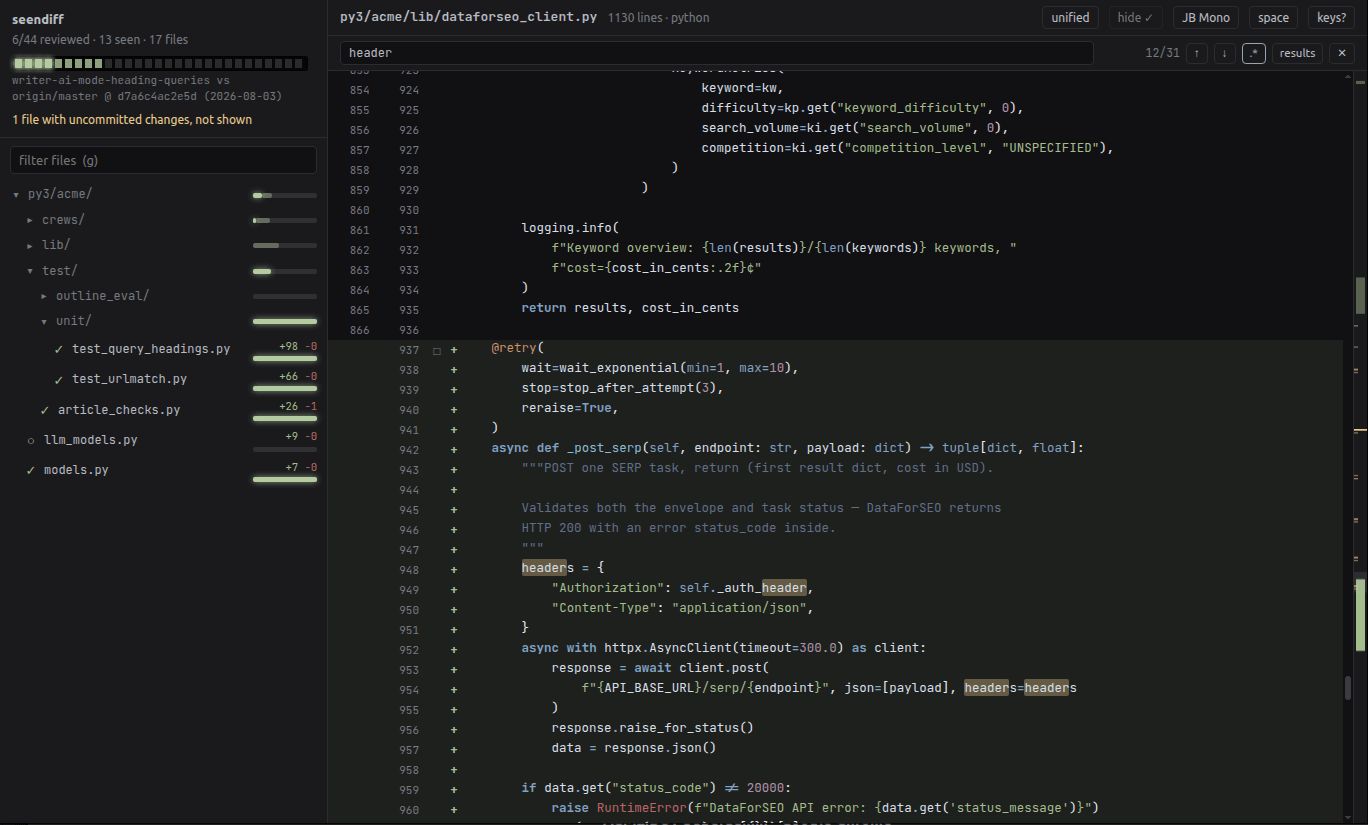
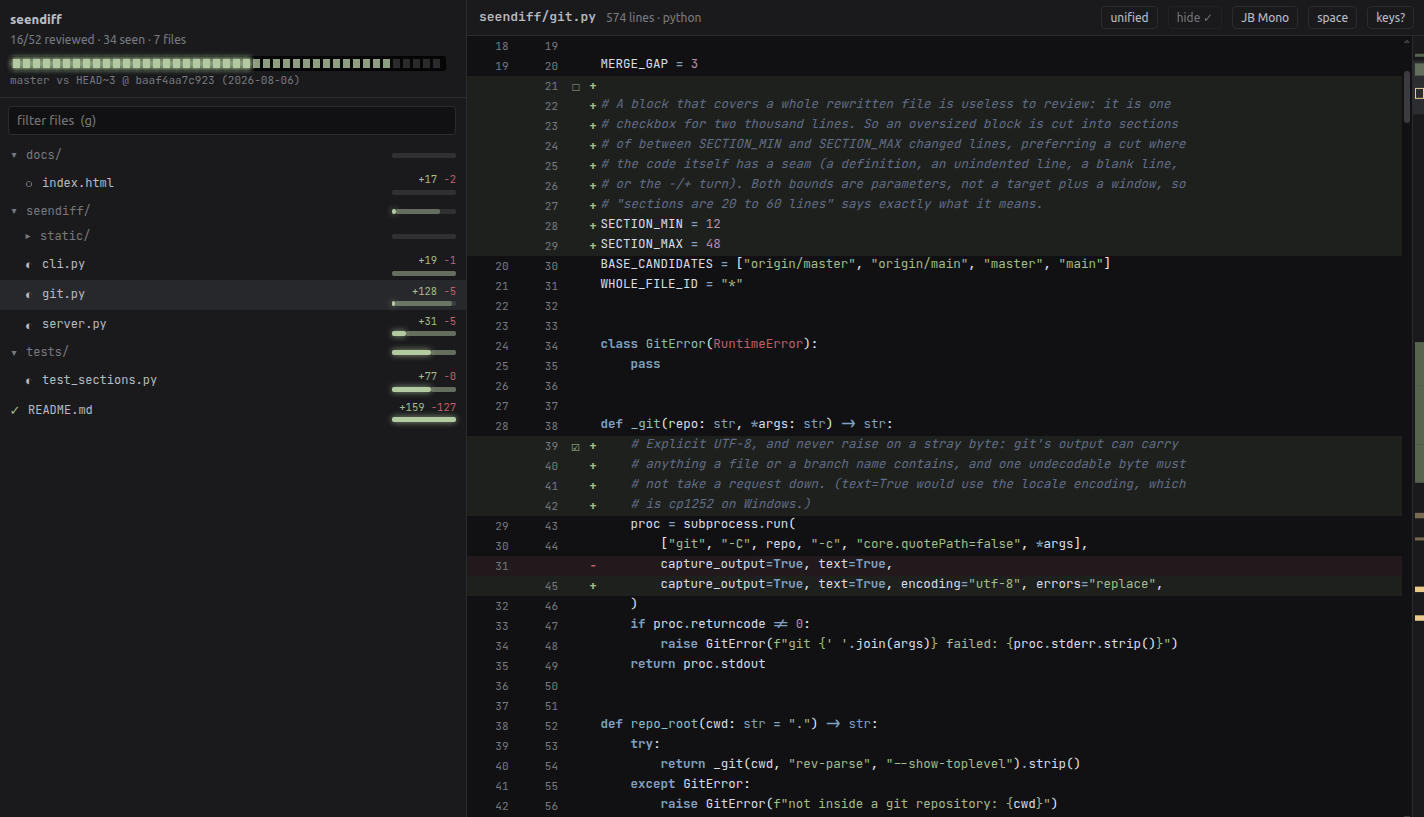
A hero shot of seendiff reviewing its own sectioning commit
Replaces the old app.png, so nothing that references it changes but the
dimensions and the alt text, which described the previous screenshot.

diff --git a/docs/index.html b/docs/index.html
@@ -210,8 +210,8 @@ footer { margin-top: 76px; padding-top: 20px; border-top: 1px solid var(--border
     <span>acme-dot-bot<span class="slash">/</span>seendiff</span></a>
 
   <figure class="shot">
-    <img src="img/app.png" width="1368" height="825"
-         alt="seendiff: the sidebar tracks 6 of 44 blocks reviewed across 17 files with a per-file progress bar, the main pane shows a syntax-highlighted diff with old and new line numbers, search open with 12 of 31 matches, and the minimap at the far right">
+    <img src="img/app.png" width="1424" height="817"
+         alt="seendiff: the sidebar reports 16 of 52 blocks reviewed across 7 files, each file carrying its own progress bar, and the main pane shows a syntax-highlighted unified diff of git.py with old and new line numbers side by side and the minimap at the far right">
   </figure>
 </header>
 

diff --git a/README.md b/README.md
@@ -18,7 +18,7 @@ View large diffs, while keeping track of what is seen and reviewed.
 
 <br>
 
-![seendiff](docs/img/app.png)
+![seendiff reviewing its own diff: the sidebar reports 16 of 52 blocks reviewed across 7 files with a per-file progress bar, and the main pane shows a unified, syntax-highlighted diff of git.py](docs/img/app.png)
 
 Your branch's full diff against `origin/master`, every changed file shown **whole**
 rather than as hunk fragments. Review state survives closing the window, and a rebase.
